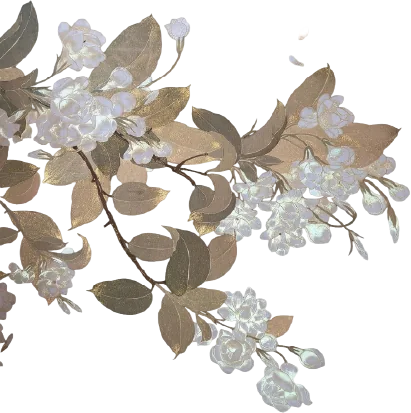
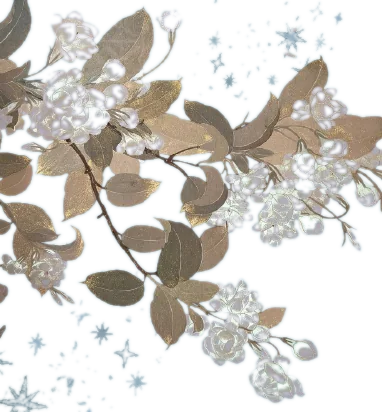
Hero: moon now BEHIND the fronds (extracted from OG) + restore 3rd lantern
- Moon + branch are now EXTRACTED straight from the original artwork (Artboard
  11@2.f5) with a sky-keying alpha, so they match the OG exactly AND the palm fronds
  sit IN FRONT of the moon (it was wrongly painted on top of them).
- Moon animation: gentle rotational sway + brightness shimmer (no full spin since the
  piece includes the fronds; anchored, no drift).
- Lanterns: the OG has 3 (upper-left, lower-left, right). Restored the lower-left one I
  had wrongly removed and placed all 3 at their exact OG spots.

diff --git a/index.html b/index.html
@@ -11,7 +11,7 @@
 
   <!-- The invitation is one baked-text illustration; decorative pieces float over it. -->
   <link rel="preload" as="image" href="assets/invitation.webp?v=2" type="image/webp" />
-  <link rel="stylesheet" href="styles.css?v=14" />
+  <link rel="stylesheet" href="styles.css?v=15" />
 </head>
 
 <body>
@@ -37,13 +37,14 @@
 
       <!-- Animated decorative cutouts (ornamental; generated from tools/deco_manifest.json). -->
       <div class="deco-layer" aria-hidden="true">
-        <img class="deco floral" src="assets/deco/branch-top-left.webp?v=5" width="411" height="413" style="--top:-2.0%;--left:-5.0%;--w:47.0%;--dur:8.0s;--fdelay:-0.0s;--edelay:0.0s" loading="lazy" decoding="async" alt="">
-        <img class="deco sparkle" src="assets/deco/stars-names.webp?v=5" width="187" height="301" style="--top:5.5%;--left:36.0%;--w:12.0%;--dur:5.9s;--fdelay:-0.47s;--edelay:0.12s" loading="lazy" decoding="async" alt="">
-        <img class="deco star" src="assets/deco/star-names-2.webp?v=5" width="68" height="82" style="--top:5.5%;--left:31.0%;--w:5.0%;--dur:7.3s;--fdelay:-0.94s;--edelay:0.24s" loading="lazy" decoding="async" alt="">
-        <img class="deco moon" src="assets/deco/moon-top-right.webp?v=5" width="365" height="344" style="--top:0.2%;--left:51.0%;--w:42.0%;--dur:8.0s;--fdelay:-1.41s;--edelay:0.36s" loading="lazy" decoding="async" alt="">
-        <img class="deco lantern" src="assets/deco/lantern-out-left.webp?v=5" width="51" height="85" style="--top:61.5%;--left:16.0%;--w:4.5%;--dur:4.9s;--fdelay:-1.88s;--edelay:0.48s" loading="lazy" decoding="async" alt="">
-        <img class="deco lantern" src="assets/deco/lantern-out-right.webp?v=5" width="51" height="86" style="--top:57.5%;--left:82.0%;--w:4.5%;--dur:5.3s;--fdelay:-2.35s;--edelay:0.6s" loading="lazy" decoding="async" alt="">
-        <img class="deco star" src="assets/deco/stars-restaurants.webp?v=5" width="171" height="351" style="--top:78.99%;--left:0.0%;--w:21.9%;--dur:6.5s;--fdelay:-2.82s;--edelay:0.0s" loading="lazy" decoding="async" alt="">
+        <img class="deco floral" src="assets/deco/branch-top-left.webp?v=6" width="382" height="412" style="--top:0.0%;--left:0.0%;--w:48.91%;--dur:8.0s;--fdelay:-0.0s;--edelay:0.0s" loading="lazy" decoding="async" alt="">
+        <img class="deco sparkle" src="assets/deco/stars-names.webp?v=6" width="187" height="301" style="--top:5.5%;--left:36.0%;--w:12.0%;--dur:5.9s;--fdelay:-0.47s;--edelay:0.12s" loading="lazy" decoding="async" alt="">
+        <img class="deco star" src="assets/deco/star-names-2.webp?v=6" width="68" height="82" style="--top:5.5%;--left:31.0%;--w:5.0%;--dur:7.3s;--fdelay:-0.94s;--edelay:0.24s" loading="lazy" decoding="async" alt="">
+        <img class="deco moon" src="assets/deco/moon-top-right.webp?v=6" width="414" height="412" style="--top:0.0%;--left:46.99%;--w:53.01%;--dur:8.0s;--fdelay:-1.41s;--edelay:0.36s" loading="lazy" decoding="async" alt="">
+        <img class="deco lantern" src="assets/deco/lantern-out-upper.webp?v=6" width="51" height="85" style="--top:62.8%;--left:15.5%;--w:5.0%;--dur:4.9s;--fdelay:-1.88s;--edelay:0.48s" loading="lazy" decoding="async" alt="">
+        <img class="deco lantern" src="assets/deco/lantern-out-lower.webp?v=6" width="37" height="67" style="--top:70.0%;--left:16.5%;--w:5.0%;--dur:5.3s;--fdelay:-2.35s;--edelay:0.6s" loading="lazy" decoding="async" alt="">
+        <img class="deco lantern" src="assets/deco/lantern-out-right.webp?v=6" width="51" height="86" style="--top:58.8%;--left:84.5%;--w:5.0%;--dur:4.5s;--fdelay:-2.82s;--edelay:0.0s" loading="lazy" decoding="async" alt="">
+        <img class="deco star" src="assets/deco/stars-restaurants.webp?v=6" width="171" height="351" style="--top:78.99%;--left:0.0%;--w:21.9%;--dur:6.9s;--fdelay:-3.29s;--edelay:0.12s" loading="lazy" decoding="async" alt="">
       </div>
 
       <!-- Invisible clickable layer. top/left/width/height are % of the image. -->

diff --git a/styles.css b/styles.css
@@ -54,8 +54,7 @@ body {
 .deco.floral  { transform-origin: 22% 12%; }  /* branch sways from where it attaches */
 .deco.palm    { transform-origin: 50% 94%; }  /* palms sway from the trunk base */
 .deco.lantern { transform-origin: 50% 6%;  }  /* lanterns swing from the top */
-.deco.moon    { transform-origin: 50% 50%;
-  filter: drop-shadow(0 0 20px rgba(232, 216, 168, 0.55)); }  /* soft halo like the OG */
+.deco.moon    { transform-origin: 35% 45%; }   /* pivot at the moon's centre (fronds are to its right) */
 
 /* When JS enables motion it adds .deco-anim to <body>: hide, then reveal on scroll. */
 .deco-anim .deco {
@@ -79,7 +78,7 @@ body {
 /* Idle motion, per asset type — applied after the entrance, paused off-screen.
    Everything is a tiny rotation (or opacity) around the anchored position, so an
    asset never drifts away from where the original artwork placed it. */
-.deco-anim .deco.is-idle.moon    { animation: moon-spin 210s linear infinite, moon-glow 9s ease-in-out infinite; }
+.deco-anim .deco.is-idle.moon    { animation: moon-sway 13s ease-in-out infinite, moon-shimmer 7s ease-in-out infinite; }
 .deco-anim .deco.is-idle.floral  { animation: leaf-sway     var(--dur, 7s) ease-in-out var(--fdelay, 0s) infinite; }
 .deco-anim .deco.is-idle.palm    { animation: palm-sway     var(--dur, 8s) ease-in-out var(--fdelay, 0s) infinite; }
 .deco-anim .deco.is-idle.lantern { animation: lantern-swing var(--dur, 4.5s) ease-in-out var(--fdelay, 0s) infinite; }
@@ -88,9 +87,8 @@ body {
 /* discs: no idle motion — they just fade in and stay put (no spin). */
 .deco-anim .deco.is-paused { animation-play-state: paused; }  /* off-screen */
 
-@keyframes moon-spin     { to      { rotate: 360deg; } }
-@keyframes moon-glow     { 0%,100% { filter: drop-shadow(0 0 14px rgba(232,216,168,.45)); }
-                           50%      { filter: drop-shadow(0 0 26px rgba(232,216,168,.7)); } }
+@keyframes moon-sway     { 0%,100% { rotate: -1.2deg; } 50% { rotate: 1.2deg; } }
+@keyframes moon-shimmer  { 0%,100% { filter: brightness(1); } 50% { filter: brightness(1.06); } }
 @keyframes leaf-sway     { 0%,100% { rotate: -2.4deg; } 50% { rotate: 2.4deg; } }
 @keyframes palm-sway     { 0%,100% { rotate: -1.4deg; } 50% { rotate: 1.4deg; } }
 @keyframes lantern-swing { 0%,100% { rotate: -3deg;   } 50% { rotate: 3deg;   } }

diff --git a/tools/build-assets.py b/tools/build-assets.py
@@ -84,10 +84,15 @@ def build_deco():
             x0 = int(it["ogLeft"] / 100 * ow); y0 = int(it["ogTop"] / 100 * oh)
             x1 = int((it["ogLeft"] + it["ogW"]) / 100 * ow); y1 = int((it["ogTop"] + it["ogH"]) / 100 * oh)
             ogc = og_a[y0:y1, x0:x1]; bsc = base_a[y0:y1, x0:x1]
-            diff = np.abs(ogc - bsc).max(axis=2)
-            alpha = np.clip((diff - 8) * 7, 0, 255).astype(np.uint8)
+            if it.get("alpha") == "sky":             # keep everything that isn't the light-blue sky
+                r, g, b = ogc[..., 0], ogc[..., 1], ogc[..., 2]
+                sky = (b > r + 8) & (r > 150) & (b > 188)
+                alpha = np.where(sky, 0, 255).astype(np.uint8); blur = 1.2
+            else:                                    # default: alpha = difference vs the base
+                diff = np.abs(ogc - bsc).max(axis=2)
+                alpha = np.clip((diff - 8) * 7, 0, 255).astype(np.uint8); blur = 0.6
             im = Image.fromarray(ogc.astype(np.uint8), "RGB").convert("RGBA")
-            im.putalpha(Image.fromarray(alpha, "L").filter(ImageFilter.GaussianBlur(0.6)))
+            im.putalpha(Image.fromarray(alpha, "L").filter(ImageFilter.GaussianBlur(blur)))
             cb = im.getchannel("A").getbbox()
             if cb is None:
                 print(f"  {slug:<26} EMPTY extract — skipped"); continue